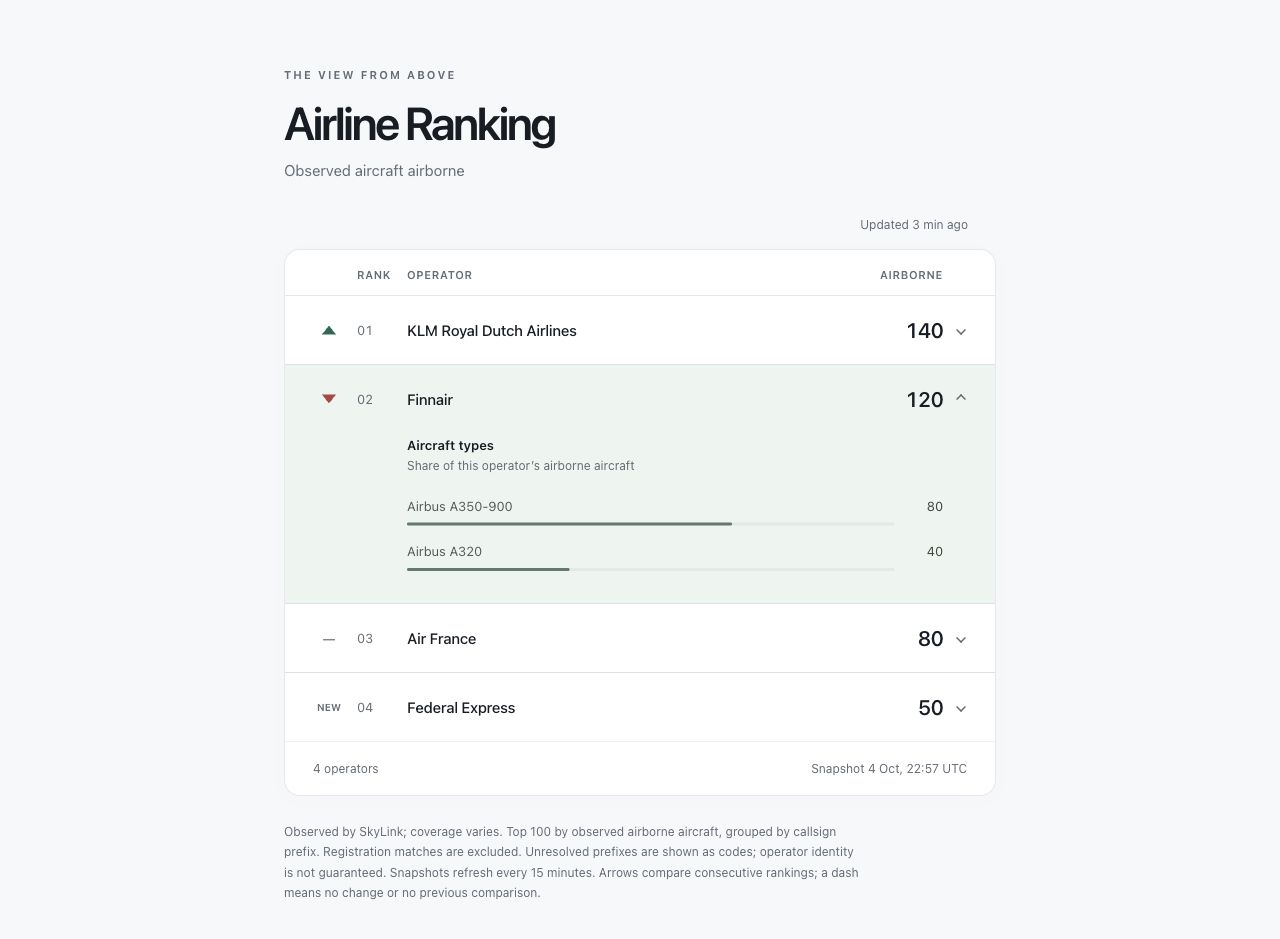
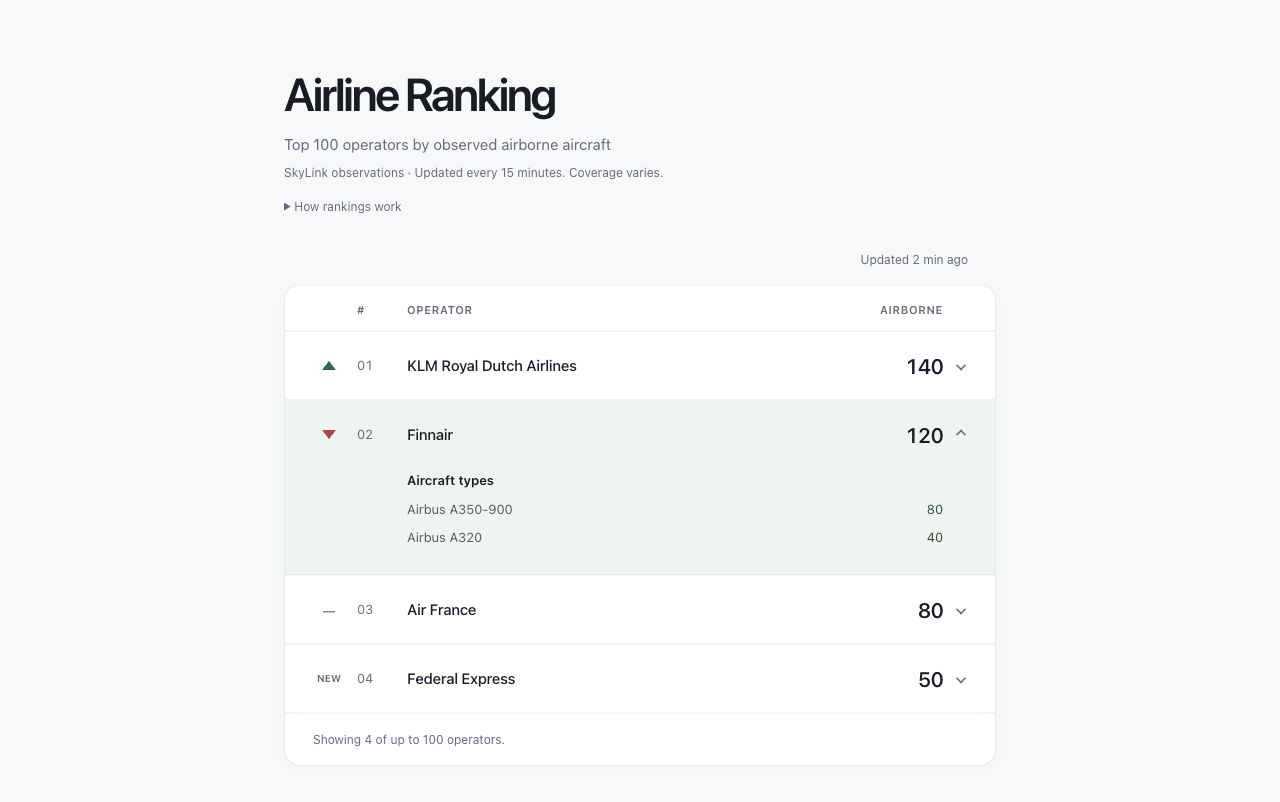
Simplify leaderboard content and aircraft breakdowns

diff --git a/src/styles.css b/src/styles.css
@@ -3,10 +3,14 @@
 html { scroll-padding-top: 180px; }
 body { margin: 0; }
 main { max-width: 760px; margin: 0 auto; padding: 68px 24px 36px; }
-.page-header { margin-bottom: 36px; }
-.eyebrow { font-size: 11px; font-weight: 650; letter-spacing: .19em; color: #626c76; margin-bottom: 16px; }
+.page-header { margin-bottom: 28px; }
 h1 { font-size: clamp(32px, 6vw, 46px); line-height: 1.12; letter-spacing: -.055em; font-weight: 600; margin: 0 0 13px; }
-.subtitle { color: #626c76; margin: 0; font-size: 15px; }
+.subtitle { color: #626c76; margin: 0; font-size: 15px; line-height: 1.5; }
+.data-source { margin: 8px 0 0; color: #626c76; font-size: 12px; line-height: 1.6; }
+.method-details { margin-top: 8px; color: #626c76; font-size: 12px; line-height: 1.7; }
+.method-details summary { width: fit-content; padding: 6px 0; cursor: pointer; }
+.method-details summary:focus-visible { outline: 2px solid #617a70; outline-offset: 3px; }
+.method-details p { margin: 8px 0 0; max-width: 620px; }
 .leaderboard { background: #fff; border: 1px solid #e5e8eb; border-radius: 16px; box-shadow: 0 4px 22px #18263503; }
 .board-header { position: sticky; top: 0; z-index: 1; background: #fff; border-radius: 16px 16px 0 0; border-bottom: 1px solid #e5e8eb; }
 .snapshot-status { margin-bottom: 16px; padding: 0 28px; text-align: right; color: #626c76; font-size: 12px; line-height: 1.5; }
@@ -15,7 +19,7 @@ h1 { font-size: clamp(32px, 6vw, 46px); line-height: 1.12; letter-spacing: -.055
 .column-headings > :nth-child(4) { text-align: right; }
 ol { list-style: none; padding: 0; margin: 0; }
 li { position: relative; border-bottom: 1px solid #dce1e5; background: white; }
-li:last-child { border-bottom: 0; }
+li:last-child { border-bottom: 0; border-radius: 0 0 16px 16px; }
 .airline-toggle { width: 100%; min-height: 68px; padding: 0 28px; border: 0; background: transparent; color: inherit; font: inherit; text-align: left; cursor: pointer; }
 li.is-expanded { background: #edf4ef; }
 @media (hover: hover) {
@@ -36,18 +40,14 @@ li.is-expanded { background: #edf4ef; }
 .aircraft-details { display: grid; grid-template-rows: 1fr; }
 .details-content { min-height: 0; overflow: hidden; }
 .details-panel { padding: 4px 52px 24px 122px; }
-.details-panel h2 { margin: 0 0 4px; font-size: 13px; font-weight: 600; }
-.details-note { margin: 0 0 14px; color: #626c76; font-size: 12px; line-height: 1.5; }
+.details-panel h2 { margin: 0 0 8px; font-size: 13px; font-weight: 600; }
 .aircraft-details dl { margin: 0; }
-.aircraft-type { display: grid; grid-template-columns: minmax(0, 1fr) 4ch; align-items: start; gap: 16px; padding: 8px 0; color: #515e58; font-size: 13px; line-height: 1.5; }
+.aircraft-type { display: grid; grid-template-columns: minmax(0, 1fr) 4ch; align-items: start; gap: 16px; padding: 4px 0; color: #515e58; font-size: 13px; line-height: 1.5; }
 .aircraft-type dt { overflow-wrap: anywhere; }
 .aircraft-type dd { margin: 0; text-align: right; font-variant-numeric: tabular-nums; color: #34473d; }
-.type-track { display: block; height: 3px; margin-top: 7px; background: #e2e9e5; border-radius: 2px; }
-.type-track > span { display: block; height: 100%; background: #617a70; border-radius: inherit; }
 .no-aircraft { margin: 10px 0 0; color: #626c76; font-size: 13px; line-height: 1.5; }
-.board-footer { display: flex; justify-content: space-between; gap: 12px; border-top: 1px solid #eef0f2; padding: 17px 28px; color: #626c76; font-size: 12px; line-height: 1.6; }
+.results-note { margin: 0; padding: 16px 28px; border-top: 1px solid #e5e8eb; color: #626c76; font-size: 12px; line-height: 1.6; }
 .update-warning { font-size: 12px; line-height: 1.5; color: #755319; background: #fcf7ed; border-radius: 6px; margin: 16px 28px 0; padding: 9px 12px; }
-.method-note { max-width: 580px; color: #626c76; font-size: 12px; line-height: 1.7; margin: 25px 0 0; }
 .empty-state { padding: 50px 28px; font-size: 14px; color: #626c76; text-align: center; }
 .visually-hidden { position: absolute; width: 1px; height: 1px; margin: -1px; overflow: hidden; clip-path: inset(50%); white-space: nowrap; }
 .details-enter { animation: reveal-details 200ms ease-out; }
@@ -57,15 +57,15 @@ li.is-expanded { background: #edf4ef; }
 @media (max-width: 480px) {
   html { scroll-padding-top: 230px; }
   main { padding: 38px 12px 28px; }
-  .page-header { margin-bottom: 28px; padding: 0 4px; }
+  .page-header { margin-bottom: 20px; padding: 0 4px; }
   .snapshot-status { padding: 0 14px; }
+  .results-note { padding: 14px; }
   .column-headings { padding: 16px 12px 12px; font-size: 10px; letter-spacing: .02em; }
   .airline-toggle { padding: 0 12px; }
   .column-headings, .airline-toggle { grid-template-columns: 28px 26px minmax(0, 1fr) 56px 10px; column-gap: 6px; }
   .airline-name { font-size: 14px; }
   .count { font-size: 19px; }
   .details-panel { padding: 4px 28px 22px 28px; }
-  .board-footer { padding: 15px 14px; flex-wrap: wrap; }
   .update-warning { margin-left: 14px; margin-right: 14px; }
 }
 @media (prefers-reduced-motion: reduce) {

diff --git a/src/app.html b/src/app.html
@@ -1,17 +1,22 @@
 <main>
   <header class="page-header">
-    <div class="eyebrow">THE VIEW FROM ABOVE</div>
     <h1>Airline Ranking</h1>
-    <p class="subtitle">Observed aircraft airborne</p>
+    <p class="subtitle">Top 100 operators by observed airborne aircraft</p>
+    <p class="data-source">SkyLink observations · Updated every 15 minutes. Coverage varies.</p>
+    <details class="method-details">
+      <summary>How rankings work</summary>
+      <p>Operators are grouped by their callsign prefix, including cargo, regional and private operators. These are observed counts, not complete worldwide totals. Equal counts are ordered by prefix.</p>
+      <p>Callsigns matching aircraft registrations are excluded. Unresolved operators appear as codes; callsigns do not guarantee operator identity. Aircraft types use verified labels where available; unfamiliar model labels remain separate.</p>
+      <p>Arrows compare positions with the previous successful snapshot. NEW means an operator was outside the previous top 100; a dash means no change or no previous comparison. After a delay, the comparison still uses the last successful snapshot.</p>
+      @if (snapshot(); as currentSnapshot) {
+        <p>Snapshot <time [attr.datetime]="currentSnapshot.updatedAt">{{ currentSnapshot.updatedAt | date: 'd MMM, HH:mm' : 'UTC' }} UTC</time></p>
+      }
+    </details>
   </header>
 
-  <div class="snapshot-status">
-    @if (snapshot()) {
-      <span>Updated {{ snapshotAge() }}</span>
-    } @else {
-      <span>Every 15 minutes</span>
-    }
-  </div>
+  @if (snapshot()) {
+    <div class="snapshot-status">Updated {{ snapshotAge() }}</div>
+  }
 
   <section class="leaderboard" aria-label="Airline leaderboard">
     <div class="board-header">
@@ -20,7 +25,7 @@
       }
       @if (snapshot()) {
         <div class="column-headings" aria-hidden="true">
-          <span></span><span>RANK</span><span>OPERATOR</span><span>AIRBORNE</span><span></span>
+          <span></span><span>#</span><span>OPERATOR</span><span>AIRBORNE</span><span></span>
         </div>
       }
     </div>
@@ -54,7 +59,7 @@
               <span class="rank"><span class="visually-hidden">Rank </span>{{ rank + 1 | number: '2.0-0' }}</span>
               <span class="airline-name">{{ airline.name }}</span>
               <span class="count" [attr.aria-label]="airline.count + ' aircraft airborne'">
-                <span aria-hidden="true">{{ (expandedAirlineId() === airline.id ? airline.count : displayedCounts()[airline.id]) | number }}</span>
+                <span aria-hidden="true">{{ airline.count | number }}</span>
               </span>
               <span class="chevron" aria-hidden="true"></span>
             </button>
@@ -66,16 +71,10 @@
                     @if (airline.count === 0) {
                       <p class="no-aircraft">No aircraft currently observed airborne.</p>
                     } @else {
-                      <p class="details-note">Share of this operator’s airborne aircraft</p>
                       <dl aria-label="Aircraft types">
                         @for (type of airline.aircraftTypes; track type.name) {
                           <div class="aircraft-type">
-                            <dt>
-                              {{ type.name }}
-                              <span class="type-track" aria-hidden="true">
-                                <span [style.width.%]="type.count / airline.count * 100"></span>
-                              </span>
-                            </dt>
+                            <dt>{{ type.name }}</dt>
                             <dd>{{ type.count | number }}</dd>
                           </div>
                         }
@@ -88,10 +87,9 @@
           </li>
         }
       </ol>
-      <div class="board-footer">
-        <span>{{ currentSnapshot.airlines.length }} operators</span>
-        <span>Snapshot <time [attr.datetime]="currentSnapshot.updatedAt">{{ currentSnapshot.updatedAt | date: 'd MMM, HH:mm' : 'UTC' }} UTC</time></span>
-      </div>
+      @if (currentSnapshot.airlines.length < 100) {
+        <p class="results-note">Showing {{ currentSnapshot.airlines.length }} of up to 100 operators.</p>
+      }
     } @else if (error()) {
       <p class="empty-state" role="alert">{{ error() }}</p>
     } @else {
@@ -99,6 +97,5 @@
     }
   </section>
 
-  <p class="method-note">Observed by SkyLink; coverage varies. Top 100 by observed airborne aircraft, grouped by callsign prefix. Registration matches are excluded. Unresolved prefixes are shown as codes; operator identity is not guaranteed. Snapshots refresh every 15 minutes. Arrows compare consecutive rankings; a dash means no change or no previous comparison.</p>
   <p class="visually-hidden" role="status">{{ announcement() }}</p>
 </main>

diff --git a/src/app.ts b/src/app.ts
@@ -17,7 +17,6 @@ export class AppComponent implements OnInit, OnDestroy {
   private readonly changeDetector = inject(ChangeDetectorRef);
   private readonly abort = new AbortController();
   private pollTimer?: ReturnType<typeof setInterval>;
-  private frame = 0;
   private animations: Animation[] = [];
 
   readonly snapshot = signal<Snapshot | null>(null);
@@ -28,16 +27,12 @@ export class AppComponent implements OnInit, OnDestroy {
   });
   readonly error = signal<string | null>(null);
   readonly rows = signal<Airline[]>([]);
-  readonly displayedCounts = signal<Record<string, number>>({});
   readonly announcement = signal('');
   readonly expandedAirlineId = signal<string | null>(null);
-  private readonly immediateCountIds = new Set<string>();
 
   toggleAirline(airline: Airline): void {
     const isExpanded = this.expandedAirlineId() === airline.id;
     this.expandedAirlineId.set(isExpanded ? null : airline.id);
-    this.immediateCountIds.add(airline.id);
-    this.displayedCounts.update(counts => ({ ...counts, [airline.id]: airline.count }));
   }
 
   ngOnInit(): void {
@@ -68,33 +63,24 @@ export class AppComponent implements OnInit, OnDestroy {
     }
   }
 
-  private counts(snapshot: Snapshot): Record<string, number> {
-    return Object.fromEntries(snapshot.airlines.map(airline => [airline.id, airline.count]));
-  }
-
   private applySnapshot(snapshot: Snapshot): void {
     if (!this.snapshot()) {
       this.snapshot.set(snapshot);
       this.rows.set(rankAirlines(snapshot.airlines));
-      this.displayedCounts.set(this.counts(snapshot));
       return;
     }
-    this.immediateCountIds.clear();
     const expandedId = this.expandedAirlineId();
     if (!snapshot.airlines.some(airline => airline.id === expandedId)) { this.expandedAirlineId.set(null); }
-    if (expandedId) { this.immediateCountIds.add(expandedId); }
-    const previous = this.displayedCounts();
+    const previousCounts = new Map(this.rows().map(airline => [airline.id, airline.count]));
     const positions = new Map(this.rowElements.map(({ nativeElement: row }) => [row.dataset['id'], row.getBoundingClientRect().top]));
     this.animations.forEach(animation => { animation.cancel(); });
     this.animations = [];
-    cancelAnimationFrame(this.frame);
     this.snapshot.set(snapshot);
     this.rows.set(rankAirlines(snapshot.airlines));
     this.announcement.set('Ranking updated.');
     this.changeDetector.detectChanges();
 
     if (window.matchMedia('(prefers-reduced-motion: reduce)').matches) {
-      this.displayedCounts.set(this.counts(snapshot));
       return;
     }
 
@@ -108,31 +94,18 @@ export class AppComponent implements OnInit, OnDestroy {
       }
       const airline = snapshot.airlines.find(item => item.id === row.dataset['id']);
       const count = row.querySelector('.count');
-      if (airline && count && previous[airline.id] !== airline.count) {
+      if (airline && count && previousCounts.get(airline.id) !== airline.count) {
         this.animations.push(count.animate([
           { color: '#171c24', backgroundColor: '#e9edf1' },
           { color: '#171c24', backgroundColor: 'transparent' },
-        ], { duration: 1500, easing: 'ease-out' }));
+        ], { duration: 800, easing: 'ease-out' }));
       }
     });
-
-    const start = performance.now();
-    const tick = (now: number) => {
-      const progress = Math.min((now - start) / 1500, 1);
-      const eased = 1 - Math.pow(1 - progress, 3);
-      this.displayedCounts.set(Object.fromEntries(snapshot.airlines.map(airline => {
-        const from = previous[airline.id] ?? airline.count;
-        return [airline.id, this.immediateCountIds.has(airline.id) ? airline.count : Math.round(from + (airline.count - from) * eased)];
-      })));
-      if (progress < 1) {this.frame = requestAnimationFrame(tick);}
-    };
-    this.frame = requestAnimationFrame(tick);
   }
 
   ngOnDestroy(): void {
     this.abort.abort();
     clearInterval(this.pollTimer);
-    cancelAnimationFrame(this.frame);
     this.animations.forEach(animation => { animation.cancel(); });
   }
 }

diff --git a/backend/aircraft-types.ts b/backend/aircraft-types.ts
@@ -50,14 +50,19 @@ const names = new Map<string, string>(Object.entries({
   E295: 'Embraer E195-E2',
   E75L: 'Embraer E175 (long wing)',
   F100: 'Fokker 100',
+  // Specific models observed in the payload, verified against EASA's model list:
+  // https://ad.easa.europa.eu/ad/2026-0064
+  'A319-131': 'Airbus A319-131',
+  'A321-271NX': 'Airbus A321-271NX',
+  'A321-271NY': 'Airbus A321-271NY',
 }));
+
+const canonicalNames = new Map(Array.from(names.values(), name => [name.toUpperCase(), name]));
 
 // Exact model labels observed in the payload and confirmed by the same FAA table.
 const aliases = new Map([
   ['BOEING 737-8', 'B38M'],
   ['BOEING 737-9', 'B39M'],
-  ['BOEING 737-800', 'B738'],
-  ['BOEING 787-9', 'B789'],
   ['EMBRAER ERJ 190-400', 'E295'],
 ]);
 
@@ -65,5 +70,5 @@ export function aircraftTypeName(value: unknown): string {
   if (typeof value !== 'string' || !value.trim()) { return 'Unknown type'; }
   const label = value.trim().replace(/\s+/g, ' ').toUpperCase();
   const code = aliases.get(label) ?? label.split(' ').at(-1) ?? '';
-  return names.get(code) ?? label;
+  return canonicalNames.get(label) ?? names.get(code) ?? label;
 }

diff --git a/README.md b/README.md
@@ -34,15 +34,15 @@ npm start
 
 Open http://127.0.0.1:4200. Both services listen on loopback only. Angular proxies `/api/ranking` to the backend on port 3000; the API key stays on the backend.
 
-The browser checks the cache every minute. The snapshot age sits above the table and updates on each browser check; the exact UTC timestamp is in the footer. Column labels and any delay notice stay visible in the sticky table header while scrolling. Row changes and counts animate briefly; reduced-motion preferences disable these animations. If an update fails, the last successful ranking and its original timestamp remain visible with a delay notice. Before the first successful snapshot, the UI shows an unavailable message and retries automatically.
+The browser checks the cache every minute. The snapshot age sits above the table and updates on each browser check; the exact UTC timestamp and grouping rules are in the “How rankings work” disclosure near the title. Column labels and any delay notice stay visible in the sticky table header while scrolling. Rows animate to their new positions; counts update immediately with a brief neutral highlight. Reduced-motion preferences disable these effects. If an update fails, the last successful ranking and its original timestamp remain visible with a delay notice. Before the first successful snapshot, the UI shows an unavailable message and retries automatically.
 
-Click an airline to expand its aircraft-type breakdown; only one row is expanded at a time. Expanded rows use a pale green background; hovering a closed row uses neutral gray. The same cached snapshot supplies both the total and its breakdown, without extra provider requests. The expanded airline stays open when the ranking changes, and its total updates immediately with its breakdown. Other totals retain their brief count animation with a neutral update highlight. Breakdown bars show each type’s share of that operator’s total, alongside the exact counts.
+Click an airline to expand its aircraft-type breakdown; only one row is expanded at a time. Expanded rows use a pale green background; hovering a closed row uses neutral gray. The same cached snapshot supplies both the total and its breakdown, without extra provider requests. The expanded airline stays open when the ranking changes, and its total updates immediately with its breakdown. The breakdown uses a compact list of model names and exact counts.
 
 Rank indicators compare each operator's position with the previous successful, distinct snapshot: a green upward triangle for a higher rank, a red downward triangle for a lower rank, and “New” for an operator absent from the previous top 100 (including returning operators). A dash marks unchanged ranks or an unavailable comparison (including the first snapshot). Movement has its own column before the rank. Equal aircraft counts still use prefix order, so indicators reflect row position rather than count changes. Screen-reader text describes each indicator.
 
 Comparison happens in the backend, so browser reloads and different viewers receive the same indicators. Repeated timestamps, name-only updates and failed fetches do not advance the comparison. After an outage, the next successful snapshot compares with the last successful one, even if the gap exceeds 15 minutes. Comparison state is held only in memory; the first snapshot after a backend restart has no indicators. This feature adds no provider calls or persistent history.
 
-Aircraft types come from SkyLink's `aircraft_type` field. Common ICAO designators and a few exact model aliases are normalized using the [FAA type table](https://www.faa.gov/air_traffic/publications/atpubs/foa_html/appendix_3.html), with labels in `backend/aircraft-types.ts`. Distinct variants remain separate. Unrecognized labels retain the provider wording with normalized whitespace and capitalization; missing or invalid values become “Unknown type”. Metadata can be incomplete or incorrect, and unfamiliar aliases may remain separate. Breakdown counts always sum to the airline total.
+Aircraft types come from SkyLink's `aircraft_type` field. Common ICAO designators and a few exact model aliases are normalized using the [FAA type table](https://www.faa.gov/air_traffic/publications/atpubs/foa_html/appendix_3.html), with labels in `backend/aircraft-types.ts`. Exact canonical names match regardless of casing or whitespace. Specific Airbus model labels observed in the payload are checked against the [EASA model list](https://ad.easa.europa.eu/ad/2026-0064) and retain their model suffixes; they are not merged into broader types. Distinct variants remain separate. Unrecognized labels retain the provider wording with normalized whitespace and capitalization; missing or invalid values become “Unknown type”. Metadata can be incomplete or incorrect, and unfamiliar aliases may remain separate. Breakdown counts always sum to the airline total.
 
 One continuously running backend makes approximately 96 aircraft-snapshot requests per day. Every restart adds an immediate request; opening more browser tabs does not trigger more provider requests. Failed requests are retried at the next scheduled refresh.
 
@@ -73,7 +73,7 @@ Every qualifying prefix is counted, including cargo and regional operators. The 
 
 Names come from [SkyLink's airline lookup](https://skylinkapi.com/docs/v31/airlines/) for prefixes in the top 100 only. Matching records that agree on a name use that name; conflicting names use a single distinct active name if available, otherwise the prefix. A lone inactive record can still supply a name. Missing results (HTTP 404 or an empty array) and unresolved duplicate names are cached as `null`. Provider names can be outdated. Names do not control eligibility or tie-breaking.
 
-The backend publishes the ranking before directory lookups complete. Browsers may initially display prefixes, then receive names on their next normal poll. Name-only updates keep the snapshot timestamp and do not restart count animations.
+The backend publishes the ranking before directory lookups complete. Browsers may initially display prefixes, then receive names on their next normal poll. Name-only updates keep the snapshot timestamp and do not trigger movement or count highlights.
 
 `.cache/operator-names.json` is created relative to the project root and excluded from Git. For example:
 
